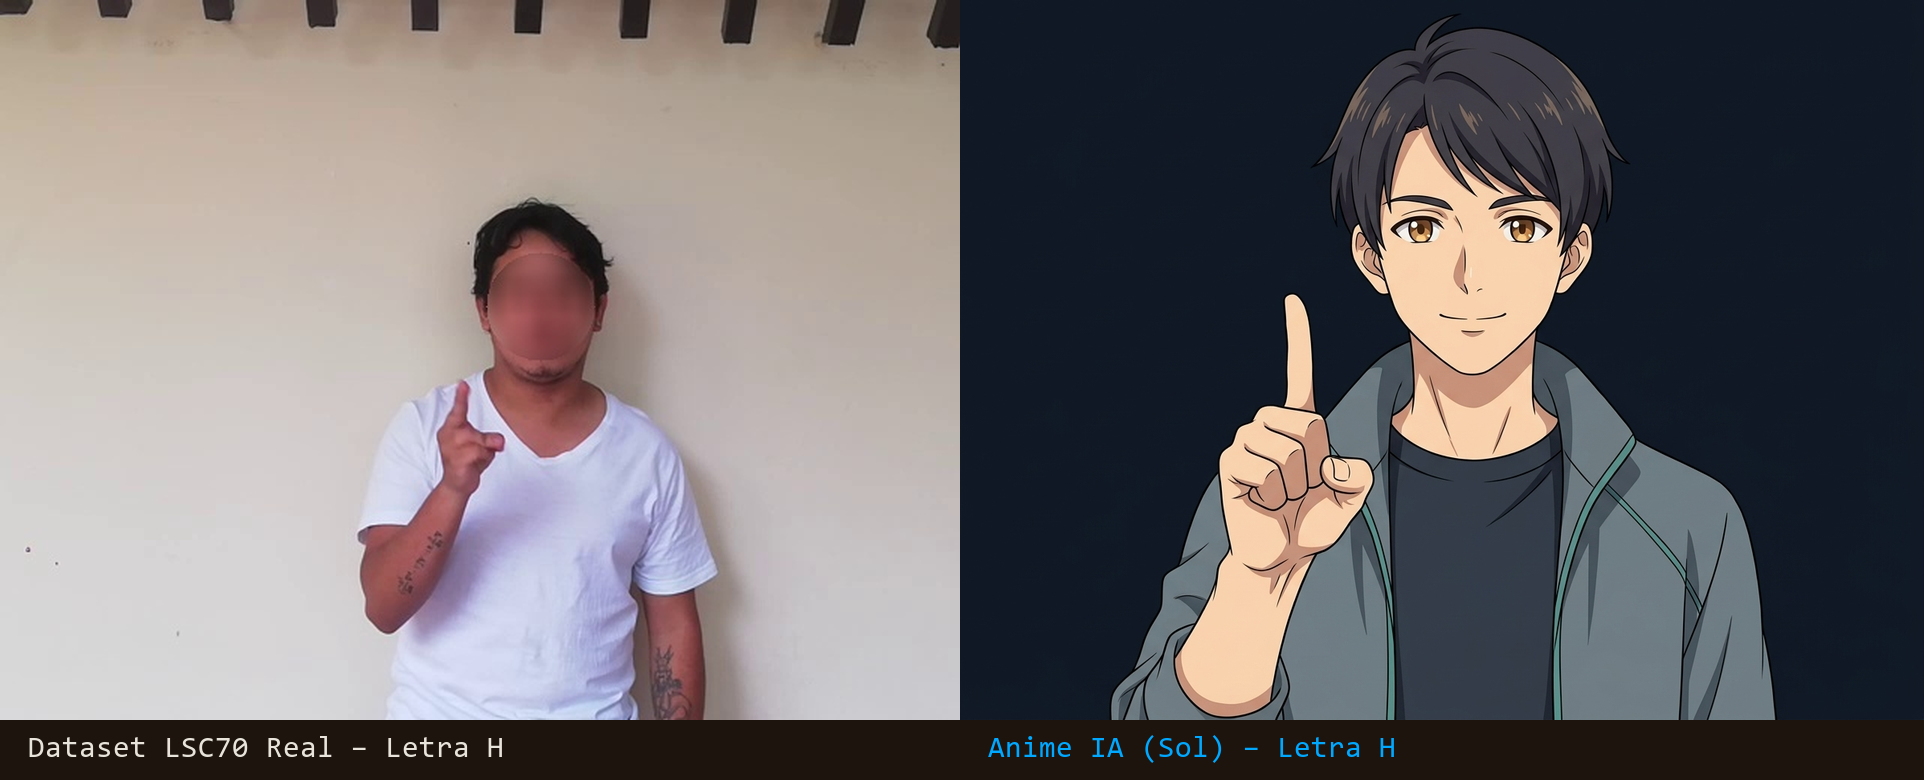
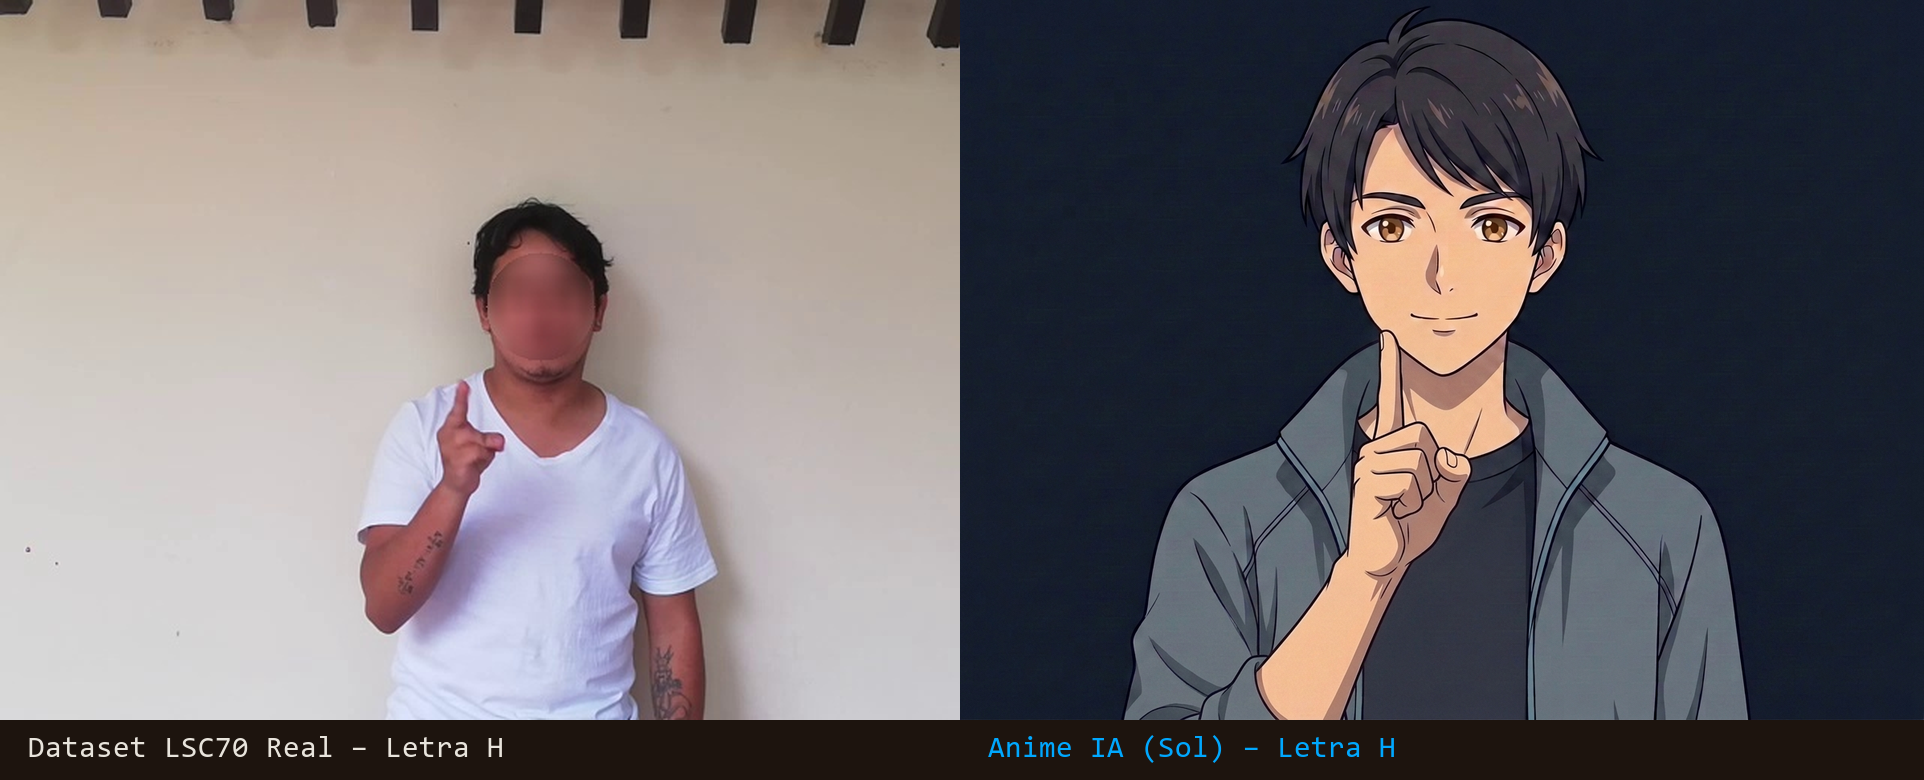
fix(dataset): corregir posicion de dedos y anatomia canonica de P, H, N y M segun LSC70

Changed region(s): [[0.5613, 0.0, 0.9356, 0.9231]]

diff --git a/referencias_para_gemini/PROMPTS_GEMINI.md b/referencias_para_gemini/PROMPTS_GEMINI.md
@@ -69,17 +69,17 @@ Para mantener una consistencia visual perfecta con la **Hoja de Personaje Oficia
 | **H** | Letra | `fotos/H_ref.jpg` | Mano derecha lateral frente a clavícula con índice vertical arriba, pulgar apuntando al frente hacia cámara y dedos restantes recogidos | `app/videos/anime/H_body.mp4` |
 | **J** | Letra | `fotos/J_ref.jpg` | Seña dinámica: trazo en curva de 'J' terminando con dorso del puño al frente y meñique extendido hacia la derecha | `app/videos/anime/J_body.mp4` |
 | **K** | Letra | `fotos/K_ref.jpg` | Mano en tijera lateral en pecho alto: índice diagonal arriba-derecha, medio diagonal abajo-derecha y pulgar en el centro | `app/videos/anime/K_body.mp4` |
-| **M** | Letra | otos/M_ref.jpg | Tres dedos (índice, medio, anular) curvados juntos hacia abajo descansando sobre el pulgar | pp/videos/anime/M_body.mp4 |
-| **N** | Letra | otos/N_ref.jpg | Dos dedos (índice y medio) curvados juntos hacia abajo descansando sobre el pulgar | pp/videos/anime/N_body.mp4 |
-| **P** | Letra | otos/P_ref.jpg | Tijera invertida en ángulo recto: índice horizontal al frente y medio vertical hacia abajo con pulgar en la base | pp/videos/anime/P_body.mp4 |
-| **Q** | Letra | otos/Q_ref.jpg | Pinza/gancho invertido hacia abajo formado por pulgar e índice en el plano torácico | pp/videos/anime/Q_body.mp4 |
-| **R** | Letra | otos/R_ref.jpg | Dedos índice y medio erguidos verticales y cruzados entre sí (dedos entrelazados de la suerte) | pp/videos/anime/R_body.mp4 |
-| **S** | Letra | otos/S_ref.jpg | Puño cerrado compacto con el pulgar doblado horizontalmente cruzando sobre el frente de los dedos | pp/videos/anime/S_body.mp4 |
-| **T** | Letra | otos/T_ref.jpg | Puño cerrado con el pulgar insertado verticalmente asomando entre el dedo índice y el medio | pp/videos/anime/T_body.mp4 |
-| **W** | Letra | otos/W_ref.jpg | Tres dedos (índice, medio, anular) erguidos en abanico abierto formando una W | pp/videos/anime/W_body.mp4 |
-| **X** | Letra | otos/X_ref.jpg | Puño cerrado con el dedo índice curvado en gancho hacia arriba | pp/videos/anime/X_body.mp4 |
-| **Y** | Letra | otos/Y_ref.jpg | Gesto de cuerno/shaka: pulgar y meñique extendidos lateralmente con dedos centrales recogidos | pp/videos/anime/Y_body.mp4 |
-| **Z** | Letra | otos/Z_ref.jpg | Seña dinámica: dedo índice extendido al frente trazando en el aire la trayectoria de la letra Z | pp/videos/anime/Z_body.mp4 |
+| **M** | Letra | fotos/M_ref.jpg | Tres dedos (índice, medio, anular) curvados juntos hacia abajo descansando sobre el pulgar | pp/videos/anime/M_body.mp4 |
+| **N** | Letra | fotos/N_ref.jpg | Dos dedos (índice y medio) curvados juntos hacia abajo descansando sobre el pulgar | pp/videos/anime/N_body.mp4 |
+| **P** | Letra | fotos/P_ref.jpg | Tijera invertida en ángulo recto: índice horizontal al frente y medio vertical hacia abajo con pulgar en la base | pp/videos/anime/P_body.mp4 |
+| **Q** | Letra | fotos/Q_ref.jpg | Pinza/gancho invertido hacia abajo formado por pulgar e índice en el plano torácico | pp/videos/anime/Q_body.mp4 |
+| **R** | Letra | fotos/R_ref.jpg | Dedos índice y medio erguidos verticales y cruzados entre sí (dedos entrelazados de la suerte) | pp/videos/anime/R_body.mp4 |
+| **S** | Letra | fotos/S_ref.jpg | Puño cerrado compacto con el pulgar doblado horizontalmente cruzando sobre el frente de los dedos | pp/videos/anime/S_body.mp4 |
+| **T** | Letra | fotos/T_ref.jpg | Puño cerrado con el pulgar insertado verticalmente asomando entre el dedo índice y el medio | pp/videos/anime/T_body.mp4 |
+| **W** | Letra | fotos/W_ref.jpg | Tres dedos (índice, medio, anular) erguidos en abanico abierto formando una W | pp/videos/anime/W_body.mp4 |
+| **X** | Letra | fotos/X_ref.jpg | Puño cerrado con el dedo índice curvado en gancho hacia arriba | pp/videos/anime/X_body.mp4 |
+| **Y** | Letra | fotos/Y_ref.jpg | Gesto de cuerno/shaka: pulgar y meñique extendidos lateralmente con dedos centrales recogidos | pp/videos/anime/Y_body.mp4 |
+| **Z** | Letra | fotos/Z_ref.jpg | Seña dinámica: dedo índice extendido al frente trazando en el aire la trayectoria de la letra Z | pp/videos/anime/Z_body.mp4 |
 
 ---
 
@@ -605,7 +605,7 @@ Holds the canonical pose steadily for 1.8s matching reference (fotos/K_ref.jpg).
 
 ### 26. Seña: M (Dactilología LSC70)
 **Español:**
-`	ext
+``	ext
 Video en bucle continuo de 2.5 segundos. Tutor anime de Lengua de Señas Colombiana (Sol, estilo cel-shading nítido, chaqueta gris pizarra con detalles teal sobre camiseta carbón, fondo neutro #0d1522).
 Plano medio mostrando torso y rostro. Letra dactilológica 'M' (dataset oficial LSC70):
 La mano derecha se sitúa al frente del pecho medio/alto con el dorso orientado hacia el frente:
@@ -617,7 +617,7 @@ Mantiene la postura estática nítida durante 1.8 segundos coincidiendo con la r
 `
 
 **English:**
-`	ext
+``	ext
 Seamless 2.5-second loop video. Anime Colombian Sign Language tutor (Sol, crisp cel-shaded anime style, slate-gray teal-trimmed jacket over charcoal crew-neck t-shirt, solid dark navy backdrop #0d1522).
 Medium shot framing upper chest and face. Canonical manual alphabet letter 'M' (LSC70 dataset):
 The right hand is positioned in front of mid-chest with the dorsal side facing forward:
@@ -632,7 +632,7 @@ Holds the canonical pose steadily for 1.8s matching reference (fotos/M_ref.jpg).
 
 ### 27. Seña: N (Dactilología LSC70)
 **Español:**
-`	ext
+``	ext
 Video en bucle continuo de 2.5 segundos. Tutor anime de Lengua de Señas Colombiana (Sol, estilo cel-shading nítido, chaqueta gris pizarra con detalles teal sobre camiseta carbón, fondo neutro #0d1522).
 Plano medio mostrando torso y rostro. Letra dactilológica 'N' (dataset oficial LSC70):
 La mano derecha se posiciona frente al pecho medio con el dorso al frente:
@@ -644,7 +644,7 @@ Mantiene la postura estática nítida durante 1.8 segundos coincidiendo con la r
 `
 
 **English:**
-`	ext
+``	ext
 Seamless 2.5-second loop video. Anime Colombian Sign Language tutor (Sol, crisp cel-shaded anime style, slate-gray teal-trimmed jacket over charcoal crew-neck t-shirt, solid dark navy backdrop #0d1522).
 Medium shot framing upper chest and face. Canonical manual alphabet letter 'N' (LSC70 dataset):
 The right hand is held in front of mid-chest with the back of the hand facing forward:
@@ -659,7 +659,7 @@ Holds the canonical pose steadily for 1.8s matching reference (fotos/N_ref.jpg).
 
 ### 28. Seña: P (Dactilología LSC70)
 **Español:**
-`	ext
+``	ext
 Video en bucle continuo de 2.5 segundos. Tutor anime de Lengua de Señas Colombiana (Sol, estilo cel-shading nítido, chaqueta gris pizarra con detalles teal sobre camiseta carbón, fondo neutro #0d1522).
 Plano medio mostrando torso y rostro. Letra dactilológica 'P' (dataset oficial LSC70):
 La mano derecha se orienta en tijera lateral inclinada hacia abajo a la altura del pecho medio:
@@ -672,7 +672,7 @@ Mantiene la postura estática nítida durante 1.8 segundos coincidiendo con la r
 `
 
 **English:**
-`	ext
+``	ext
 Seamless 2.5-second loop video. Anime Colombian Sign Language tutor (Sol, crisp cel-shaded anime style, slate-gray teal-trimmed jacket over charcoal crew-neck t-shirt, solid dark navy backdrop #0d1522).
 Medium shot framing upper chest and face. Canonical manual alphabet letter 'P' (LSC70 dataset):
 The right hand is oriented in a downward-pointing scissor gesture at mid-chest:
@@ -688,7 +688,7 @@ Holds the canonical pose steadily for 1.8s matching reference (fotos/P_ref.jpg).
 
 ### 29. Seña: Q (Dactilología LSC70)
 **Español:**
-`	ext
+``	ext
 Video en bucle continuo de 2.5 segundos. Tutor anime de Lengua de Señas Colombiana (Sol, estilo cel-shading nítido, chaqueta gris pizarra con detalles teal sobre camiseta carbón, fondo neutro #0d1522).
 Plano medio mostrando torso y rostro. Letra dactilológica 'Q' (dataset oficial LSC70):
 La mano derecha se ubica en el pecho medio/bajo orientada hacia abajo:
@@ -700,7 +700,7 @@ Mantiene la postura estática nítida durante 1.8 segundos coincidiendo con la r
 `
 
 **English:**
-`	ext
+``	ext
 Seamless 2.5-second loop video. Anime Colombian Sign Language tutor (Sol, crisp cel-shaded anime style, slate-gray teal-trimmed jacket over charcoal crew-neck t-shirt, solid dark navy backdrop #0d1522).
 Medium shot framing upper chest and face. Canonical manual alphabet letter 'Q' (LSC70 dataset):
 The right hand is held at mid/lower-chest angled downward:
@@ -715,7 +715,7 @@ Holds the canonical pose steadily for 1.8s matching reference (fotos/Q_ref.jpg).
 
 ### 30. Seña: R (Dactilología LSC70)
 **Español:**
-`	ext
+``	ext
 Video en bucle continuo de 2.5 segundos. Tutor anime de Lengua de Señas Colombiana (Sol, estilo cel-shading nítido, chaqueta gris pizarra con detalles teal sobre camiseta carbón, fondo neutro #0d1522).
 Plano medio mostrando torso y rostro. Letra dactilológica 'R' (dataset oficial LSC70):
 La mano derecha se eleva frente a la clavícula con la palma orientada hacia el frente:
@@ -726,7 +726,7 @@ Mantiene la postura estática nítida durante 1.8 segundos coincidiendo con la r
 `
 
 **English:**
-`	ext
+``	ext
 Seamless 2.5-second loop video. Anime Colombian Sign Language tutor (Sol, crisp cel-shaded anime style, slate-gray teal-trimmed jacket over charcoal crew-neck t-shirt, solid dark navy backdrop #0d1522).
 Medium shot framing upper chest and face. Canonical manual alphabet letter 'R' (LSC70 dataset):
 The right hand is raised near collarbone height with palm facing forward:
@@ -740,7 +740,7 @@ Holds the canonical pose steadily for 1.8s matching reference (fotos/R_ref.jpg).
 
 ### 31. Seña: S (Dactilología LSC70)
 **Español:**
-`	ext
+``	ext
 Video en bucle continuo de 2.5 segundos. Tutor anime de Lengua de Señas Colombiana (Sol, estilo cel-shading nítido, chaqueta gris pizarra con detalles teal sobre camiseta carbón, fondo neutro #0d1522).
 Plano medio mostrando torso y rostro. Letra dactilológica 'S' (dataset oficial LSC70):
 La mano derecha forma un puño cerrado frente al pecho medio con la palma/dorso orientado al frente:
@@ -751,7 +751,7 @@ Mantiene la postura estática nítida durante 1.8 segundos coincidiendo con la r
 `
 
 **English:**
-`	ext
+``	ext
 Seamless 2.5-second loop video. Anime Colombian Sign Language tutor (Sol, crisp cel-shaded anime style, slate-gray teal-trimmed jacket over charcoal crew-neck t-shirt, solid dark navy backdrop #0d1522).
 Medium shot framing upper chest and face. Canonical manual alphabet letter 'S' (LSC70 dataset):
 The right hand forms a compact closed fist at mid-chest facing forward:
@@ -765,7 +765,7 @@ Holds the canonical pose steadily for 1.8s matching reference (fotos/S_ref.jpg).
 
 ### 32. Seña: T (Dactilología LSC70)
 **Español:**
-`	ext
+``	ext
 Video en bucle continuo de 2.5 segundos. Tutor anime de Lengua de Señas Colombiana (Sol, estilo cel-shading nítido, chaqueta gris pizarra con detalles teal sobre camiseta carbón, fondo neutro #0d1522).
 Plano medio mostrando torso y rostro. Letra dactilológica 'T' (dataset oficial LSC70):
 La mano derecha forma un puño frente al pecho medio:
@@ -777,7 +777,7 @@ Mantiene la postura estática nítida durante 1.8 segundos coincidiendo con la r
 `
 
 **English:**
-`	ext
+``	ext
 Seamless 2.5-second loop video. Anime Colombian Sign Language tutor (Sol, crisp cel-shaded anime style, slate-gray teal-trimmed jacket over charcoal crew-neck t-shirt, solid dark navy backdrop #0d1522).
 Medium shot framing upper chest and face. Canonical manual alphabet letter 'T' (LSC70 dataset):
 The right hand forms a fist at mid-chest:
@@ -792,7 +792,7 @@ Holds the canonical pose steadily for 1.8s matching reference (fotos/T_ref.jpg).
 
 ### 33. Seña: W (Dactilología LSC70)
 **Español:**
-`	ext
+``	ext
 Video en bucle continuo de 2.5 segundos. Tutor anime de Lengua de Señas Colombiana (Sol, estilo cel-shading nítido, chaqueta gris pizarra con detalles teal sobre camiseta carbón, fondo neutro #0d1522).
 Plano medio mostrando torso y rostro. Letra dactilológica 'W' (dataset oficial LSC70):
 La mano derecha se eleva al lateral del pecho con la palma orientada al frente:
@@ -803,7 +803,7 @@ Mantiene la postura estática nítida durante 1.8 segundos coincidiendo con la r
 `
 
 **English:**
-`	ext
+``	ext
 Seamless 2.5-second loop video. Anime Colombian Sign Language tutor (Sol, crisp cel-shaded anime style, slate-gray teal-trimmed jacket over charcoal crew-neck t-shirt, solid dark navy backdrop #0d1522).
 Medium shot framing upper chest and face. Canonical manual alphabet letter 'W' (LSC70 dataset):
 The right hand is raised beside the chest with palm facing forward:
@@ -817,7 +817,7 @@ Holds the canonical pose steadily for 1.8s matching reference (fotos/W_ref.jpg).
 
 ### 34. Seña: X (Dactilología LSC70)
 **Español:**
-`	ext
+``	ext
 Video en bucle continuo de 2.5 segundos. Tutor anime de Lengua de Señas Colombiana (Sol, estilo cel-shading nítido, chaqueta gris pizarra con detalles teal sobre camiseta carbón, fondo neutro #0d1522).
 Plano medio mostrando torso y rostro. Letra dactilológica 'X' (dataset oficial LSC70):
 La mano derecha se sitúa frente al pecho en vista 3/4 lateral:
@@ -829,7 +829,7 @@ Mantiene la postura estática nítida durante 1.8 segundos coincidiendo con la r
 `
 
 **English:**
-`	ext
+``	ext
 Seamless 2.5-second loop video. Anime Colombian Sign Language tutor (Sol, crisp cel-shaded anime style, slate-gray teal-trimmed jacket over charcoal crew-neck t-shirt, solid dark navy backdrop #0d1522).
 Medium shot framing upper chest and face. Canonical manual alphabet letter 'X' (LSC70 dataset):
 The right hand is held in front of the chest in a 3/4 lateral view:
@@ -844,7 +844,7 @@ Holds the canonical pose steadily for 1.8s matching reference (fotos/X_ref.jpg).
 
 ### 35. Seña: Y (Dactilología LSC70)
 **Español:**
-`	ext
+``	ext
 Video en bucle continuo de 2.5 segundos. Tutor anime de Lengua de Señas Colombiana (Sol, estilo cel-shading nítido, chaqueta gris pizarra con detalles teal sobre camiseta carbón, fondo neutro #0d1522).
 Plano medio mostrando torso y rostro. Letra dactilológica 'Y' (dataset oficial LSC70):
 La mano derecha se ubica al frente del pecho con la palma orientada hacia el frente:
@@ -855,7 +855,7 @@ Mantiene la postura estática nítida durante 1.8 segundos coincidiendo con la r
 `
 
 **English:**
-`	ext
+``	ext
 Seamless 2.5-second loop video. Anime Colombian Sign Language tutor (Sol, crisp cel-shaded anime style, slate-gray teal-trimmed jacket over charcoal crew-neck t-shirt, solid dark navy backdrop #0d1522).
 Medium shot framing upper chest and face. Canonical manual alphabet letter 'Y' (LSC70 dataset):
 The right hand is held in front of the chest facing forward:
@@ -869,7 +869,7 @@ Holds the canonical pose steadily for 1.8s matching reference (fotos/Y_ref.jpg).
 
 ### 36. Seña: Z (Dactilología LSC70 — Seña Dinámica)
 **Español:**
-`	ext
+``	ext
 Video en bucle continuo de 2.5 segundos. Tutor anime de Lengua de Señas Colombiana (Sol, estilo cel-shading nítido, chaqueta gris pizarra con detalles teal sobre camiseta carbón, fondo neutro #0d1522).
 Plano medio mostrando torso y rostro. Letra dactilológica 'Z' (dataset oficial LSC70):
 Seña dinámica en el espacio aéreo frente al pecho:
@@ -884,7 +884,7 @@ Movimiento nítido sin vacilación, 5 dedos correctamente modelados, iluminació
 `
 
 **English:**
-`	ext
+``	ext
 Seamless 2.5-second loop video. Anime Colombian Sign Language tutor (Sol, crisp cel-shaded anime style, slate-gray teal-trimmed jacket over charcoal crew-neck t-shirt, solid dark navy backdrop #0d1522).
 Medium shot framing upper chest and face. Canonical manual alphabet letter 'Z' (LSC70 dataset):
 Dynamic sign executed in the air space in front of the chest:
